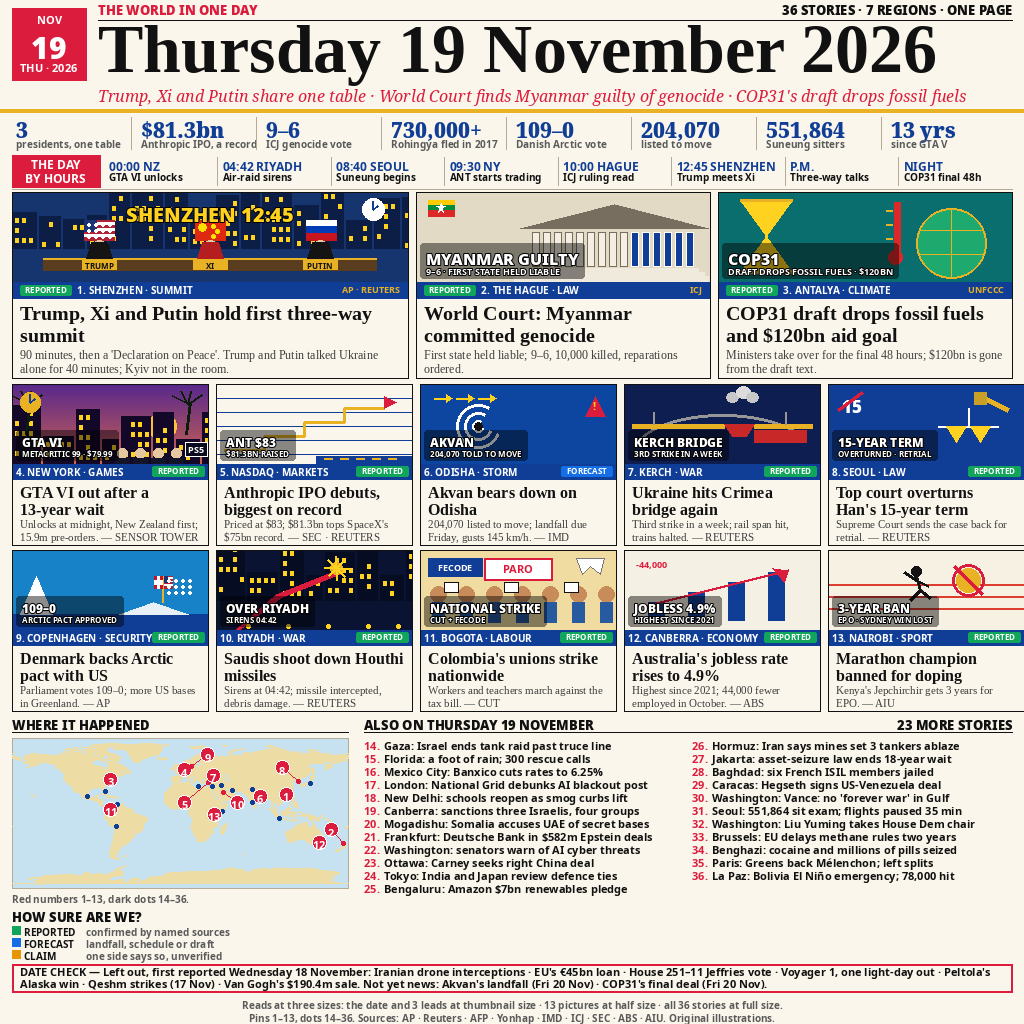
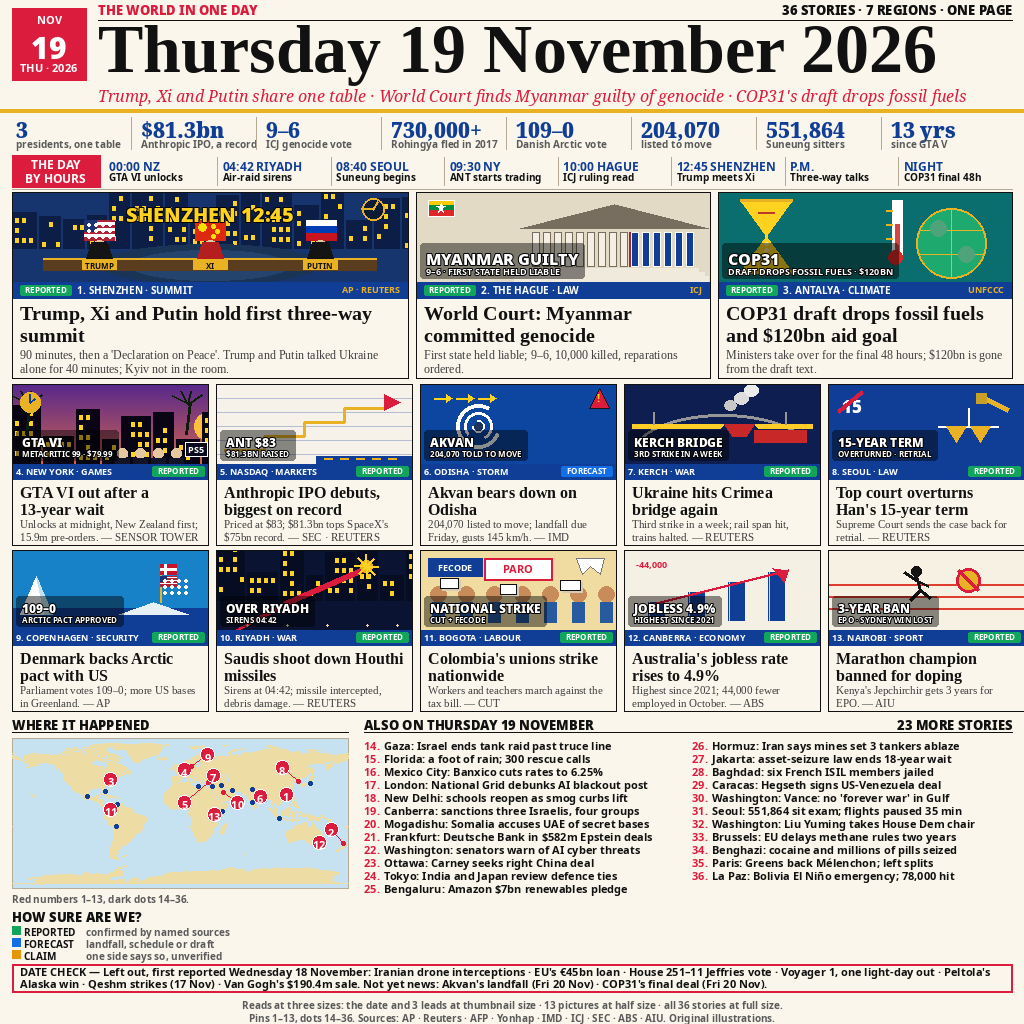
v24: fix kicker 9 collision (9px) + DeepSeek art upgrade round 2 (all 13)

diff --git a/draw.py b/draw.py
@@ -126,6 +126,7 @@ F_DATE2 = font("NotoSans-Bold.ttf", 11, FNOTO)
 F_TTIME = font("NotoSans-Bold.ttf", 12, FNOTO)
 F_TTEXT = font("NotoSans-Bold.ttf", 10, FNOTO)
 F_KICK = font("NotoSans-Bold.ttf", 10, FNOTO)
+F_KICK_S = font("NotoSans-Bold.ttf", 9, FNOTO)  # smalls kicker: 10px made #9 touch the pill (0.3px gap)
 F_PILL = font("NotoSans-Bold.ttf", 8, FNOTO)
 F_SRC = font("NotoSans-Bold.ttf", 9, FNOTO)
 F_HEAD = font("LiberationSerif-Bold.ttf", 20, FLIB)
@@ -399,10 +400,15 @@ def art_image(key, w, h):
     if key == "summit":
         d.rectangle([0, 0, w, h], fill=(22, 52, 110))
         _skyline(d, w, h, h - 34, (12, 30, 70), 7)
-        # wall clock 12:45, top right (no label: the focal text says 12:45)
-        d.ellipse([w - 46, 6, w - 24, 28], fill="white")
-        d.line([w - 35, 17, w - 35, 9], fill=NAVY, width=2)
-        d.line([w - 35, 17, w - 30, 13], fill=NAVY, width=2)
+        # wall clock 12:45, top right: gold ring, dark face, hands read 12:45
+        # (minute hand left to 9, hour hand 3/4 toward 1)
+        d.ellipse([w - 46, 6, w - 24, 28], fill=(11, 27, 51), outline=GOLD,
+                  width=2)
+        d.line([w - 35, 17, w - 47, 17], fill=GOLD, width=2)
+        d.line([w - 35, 17, w - 30, 9], fill=GOLD, width=2)
+        # warm glow behind the table so the leaders pop out of the dark
+        d.ellipse([w * 0.22, 52, w * 0.78, 92], fill=(26, 52, 87))
+        d.ellipse([w * 0.30, 58, w * 0.70, 88], fill=(36, 68, 110))
         # three flags above the leaders (DeepSeek v20: one flag per leader)
         _flag(d, 72, 28, 30, 20, "us")
         _flag(d, 183, 28, 30, 20, "cn")
@@ -425,9 +431,9 @@ def art_image(key, w, h):
             t = i / h
             d.line([0, i, w, i], fill=(int(88 + 120 * t), int(40 + 60 * t),
                                        int(140 - 60 * t)))
-        # sun, right (DeepSeek v20)
-        d.ellipse([136, 28, 164, 56], fill=(255, 190, 60))
-        _skyline(d, w, h, h, (20, 8, 40), 11)
+        # sun, right: half-disc clipped by the edge (a sunset, not a logo)
+        d.ellipse([182, 28, 210, 56], fill=(255, 190, 60))
+        _skyline(d, w, h, h, (10, 5, 20), 11)
         for px in (14, w - 22):
             d.line([px, h - 30, px + 4, h - 62], fill=(10, 30, 10), width=3)
             for a in (-50, -20, 10, 40):
@@ -445,15 +451,15 @@ def art_image(key, w, h):
             d.ellipse([cx - 5, h - 16, cx + 5, h - 6], fill=(230, 200, 160))
             d.rectangle([cx - 7, h - 6, cx + 7, h], fill=(20, 20, 40))
     elif key == "anthropic":
-        d.rectangle([0, 0, w, h], fill=PAPER)
+        d.rectangle([0, 0, w, h], fill=(246, 242, 233))
         for gy in range(0, h, 14):
-            d.line([0, gy, w, gy], fill=NAVY, width=1)
+            d.line([0, gy, w, gy], fill=(180, 190, 210), width=1)
         # gold stair-step chart climbing to a red arrowhead (DeepSeek v20)
         steps = [(8, 66), (48, 66), (48, 52), (88, 52), (88, 38),
                  (128, 38), (128, 24), (168, 24)]
         for i in range(len(steps) - 1):
             d.line([steps[i], steps[i + 1]], fill=GOLD, width=3)
-        d.polygon([(168, 24), (180, 18), (168, 12)], fill=RED)
+        d.polygon([(168, 26), (184, 18), (168, 10)], fill=RED)
         # navy ticker strip along the bottom right (clear of the text scrim)
         d.rectangle([100, h - 8, w, h], fill=NAVY)
         for tx in (108, 124, 140, 156, 172):
@@ -473,10 +479,13 @@ def art_image(key, w, h):
         d.rectangle([110, 76, 282, 80], fill=(240, 234, 220))
         d.rectangle([104, 80, 288, 84], fill=(240, 234, 220))
         d.rectangle([98, 84, 292, 90], fill=(240, 234, 220))
-        # Myanmar flag top left (yellow/green/red + white star)
+        # red divider between the 9 paper and 6 ink columns (the 9-6 vote)
+        d.line([213, 40, 213, 74], fill=(179, 34, 44), width=2)
+        # Myanmar flag top left (yellow/green/red + white star), white outline
         d.rectangle([12, 8, 38, 13], fill=(254, 203, 0))
         d.rectangle([12, 13, 38, 18], fill=(0, 140, 60))
         d.rectangle([12, 18, 38, 24], fill=(220, 40, 40))
+        d.rectangle([12, 8, 38, 24], outline="white", width=1)
         _star(d, 25, 16, 5, 2)
     elif key == "cop31":
         d.rectangle([0, 0, w, h], fill=(11, 110, 110))
@@ -487,74 +496,90 @@ def art_image(key, w, h):
         d.line([22, 80, 74, 80], fill=GOLD, width=3)
         d.line([48, 44, 48, 66], fill=(255, 210, 31), width=3)
         d.ellipse([38, 72, 58, 78], fill=(255, 210, 31))
-        # green globe, right: gold outline + meridian/latitude lines
+        # sand running out: red level line in the top bulb + falling grains
+        d.line([40, 20, 56, 20], fill=(192, 57, 43), width=2)
+        for gy in (50, 56, 62):
+            d.ellipse([46, gy, 50, gy + 3], fill=(247, 222, 154))
+        # green globe, right: gold outline + meridian/latitude lines + continents
         d.ellipse([198, 16, 268, 86], fill=(30, 170, 110), outline=GOLD, width=2)
         d.line([233, 18, 233, 84], fill=GOLD, width=1)
         d.line([202, 38, 264, 38], fill=GOLD, width=1)
         d.line([202, 62, 264, 62], fill=GOLD, width=1)
-        # red thermometer spearing the globe's left edge
-        d.rectangle([176, 10, 182, 62], fill=(220, 40, 40))
+        d.ellipse([212, 28, 228, 44], fill=(79, 163, 122))
+        d.ellipse([240, 54, 256, 70], fill=(79, 163, 122))
+        # red thermometer: white tube, mercury stopping short (dropping, not rising)
+        d.rectangle([174, 8, 184, 64], fill="white")
+        d.rectangle([177, 32, 181, 62], fill=(214, 69, 65))
         d.ellipse([170, 58, 184, 72], fill=(220, 40, 40))
         for ty in (18, 32, 46):
             d.line([168, ty, 174, ty], fill=GOLD, width=2)
     elif key == "akvan":
         d.rectangle([0, 0, w, h], fill=(12, 70, 160))
-        # spiral centred left (DeepSeek v20): three paper arcs + ink eye
+        # spiral centred left (DeepSeek v20): three paper arcs + navy eye
+        # arcs offset by 120 deg and tapered, so they read as rotation
         cx, cy = 58, 42
-        for r in (6, 14, 22):
-            d.arc([cx - r, cy - r, cx + r, cy + r], 20, 300,
-                  fill="white", width=3)
-        d.ellipse([cx - 4, cy - 4, cx + 4, cy + 4], fill=INK)
+        d.arc([cx - 22, cy - 22, cx + 22, cy + 22], 20, 300,
+              fill="white", width=4)
+        d.arc([cx - 14, cy - 14, cx + 14, cy + 14], 140, 60,
+              fill="white", width=3)
+        d.arc([cx - 6, cy - 6, cx + 6, cy + 6], 260, 180,
+              fill="white", width=2)
+        d.ellipse([cx - 4, cy - 4, cx + 4, cy + 4], fill=(30, 50, 90))
         # arrows inland, top left + red warning triangle top right
         for i in range(3):
             ax = 14 + i * 22
             d.line([ax, 14, ax + 12, 14], fill=YELLOW, width=2)
             d.polygon([(ax + 12, 10), (ax + 12, 18), (ax + 18, 14)],
                       fill=YELLOW)
-        d.polygon([(175, 12), (185, 32), (165, 32)], fill=RED)
-        d.text((175, 22), "!", font=F_ART2_S, fill=YELLOW, anchor="mm")
+        d.polygon([(179, 4), (189, 24), (169, 24)], fill=RED,
+                  outline=(20, 20, 20))
+        d.text((179, 14), "!", font=F_ART2_S, fill=YELLOW, anchor="mm")
     elif key == "kerch":
         d.rectangle([0, 0, w, h], fill=(14, 30, 80))
-        # bridge arc + gold deck with a gap mid-span, red span sagging (DeepSeek v20)
+        # bridge arc + gold deck with a bevelled gap mid-span, red span sagging
         d.arc([8, 30, w - 8, h + 30], 200, 340, fill=(150, 150, 150), width=3)
-        d.rectangle([8, h - 40, 100, h - 36], fill=GOLD)
-        d.rectangle([130, h - 40, w - 8, h - 36], fill=GOLD)
+        d.polygon([(8, h - 40), (100, h - 40), (96, h - 36), (8, h - 36)],
+                  fill=(255, 205, 40))
+        d.polygon([(130, h - 40), (w - 8, h - 40), (w - 8, h - 36),
+                   (134, h - 36)], fill=(255, 205, 40))
         for px in (30, w - 34):
             d.line([px, h - 40, px, h - 52], fill=(150, 150, 150), width=2)
         d.polygon([(100, h - 40), (130, h - 40), (122, h - 28), (108, h - 28)],
                   fill=(200, 40, 40))
-        # halted train, three smoke ellipses rising from the gap
+        # halted train, three smoke ellipses rising on a diagonal, fading up
         d.rectangle([w - 66, h - 34, w - 14, h - 22], fill=(200, 40, 40))
-        d.ellipse([102, 8, 114, 18], fill=(200, 200, 200))
-        d.ellipse([112, 2, 126, 14], fill=(220, 220, 220))
-        d.ellipse([122, 8, 134, 18], fill=(200, 200, 200))
+        d.ellipse([100, 16, 112, 26], fill=(200, 200, 200))
+        d.ellipse([110, 8, 124, 20], fill=(220, 220, 220))
+        d.ellipse([120, 0, 134, 12], fill=(235, 235, 235))
     elif key == "han":
         d.rectangle([0, 0, w, h], fill=NAVY)
-        # struck-through 15 top left (the overturned sentence)
+        # struck-through 15 top left (the overturned sentence): thick bar
         d.text((14, 10), "15", font=F_ART2, fill="white")
-        d.line([10, 26, 34, 8], fill=RED, width=3)
-        # gold gavel angled top right (DeepSeek v20)
+        d.line([10, 27, 34, 7], fill=RED, width=4)
+        # gold gavel angled top right (DeepSeek v20), head kept small
         d.line([w - 44, 12, w - 16, 26], fill=GOLD, width=5)
-        d.rectangle([w - 50, 8, w - 38, 20], fill=(200, 160, 40))
-        # yellow scales on a paper beam, centre right
+        d.rectangle([w - 48, 9, w - 38, 19], fill=(200, 160, 40))
+        # gold scales on a paper beam, centre right
         d.line([140, 24, 140, 42], fill="white", width=2)
         d.line([110, 42, 170, 42], fill="white", width=2)
-        d.polygon([(118, 42), (138, 42), (128, 58)], fill=YELLOW)
-        d.polygon([(142, 42), (162, 42), (152, 58)], fill=YELLOW)
+        d.polygon([(118, 42), (138, 42), (128, 58)], fill=GOLD)
+        d.polygon([(142, 42), (162, 42), (152, 58)], fill=GOLD)
     elif key == "greenland":
         d.rectangle([0, 0, w, h], fill=(24, 130, 200))
-        # navy sea band (DeepSeek v20)
-        d.rectangle([0, 64, w, h], fill=NAVY)
+        # navy sea band, waterline at y58
+        d.rectangle([0, 58, w, h], fill=NAVY)
         # paper iceberg + second smaller berg, bases on the sea
         d.polygon([(8, 64), (40, 64), (24, 26)], fill="white")
+        # light-blue facet wedge on the iceberg's right third
+        d.polygon([(24, 26), (40, 64), (32, 64)], fill=(191, 227, 242))
         d.polygon([(w * 0.55, 64), (w * 0.72, 52), (w * 0.9, 64)],
                   fill=(230, 240, 245))
-        # two flags on one gold pole, right
-        d.line([150, 26, 150, 52], fill=GOLD, width=2)
-        d.rectangle([142, 26, 150, 38], fill=(200, 20, 40))
-        d.rectangle([142, 30, 150, 34], fill="white")
-        d.rectangle([145, 26, 147, 38], fill="white")
-        _flag(d, 152, 26, 8, 12, "us")
+        # two flags stacked on one gold pole, right
+        d.line([148, 14, 148, 52], fill=GOLD, width=2)
+        d.rectangle([148, 14, 164, 24], fill=(200, 20, 40))
+        d.rectangle([148, 18, 164, 20], fill="white")
+        d.rectangle([152, 14, 154, 24], fill="white")
+        _flag(d, 148, 26, 16, 10, "us")
     elif key == "marathon":
         d.rectangle([0, 0, w, h], fill=(246, 241, 226))
         # track lanes + runner + finish line
@@ -568,24 +593,24 @@ def art_image(key, w, h):
         d.line([cx, cy + 2, cx + 12, cy + 8], fill=(20, 20, 20), width=3)
         d.line([cx + 4, cy + 12, cx - 6, cy + 22], fill=(20, 20, 20), width=3)
         d.line([cx + 4, cy + 12, cx + 14, cy + 20], fill=(20, 20, 20), width=3)
-        # gold medal with a red circle-slash (the ban) (DeepSeek v20)
+        # gold medal with a red circle-slash that fits the medal (the ban)
         d.ellipse([128, 18, 152, 42], fill=GOLD)
-        d.ellipse([124, 14, 156, 46], outline=RED, width=3)
-        d.line([126, 16, 154, 44], fill=RED, width=3)
+        d.ellipse([128, 18, 152, 42], outline=RED, width=3)
+        d.line([130, 20, 150, 40], fill=RED, width=3)
     elif key == "riyadh":
         d.rectangle([0, 0, w, h], fill=(10, 20, 50))
         _skyline(d, w, h, h - 30, (6, 12, 34), 11)
-        # red interceptor trail rising to a gold burst (DeepSeek v20)
-        d.polygon([(20, 79), (60, 44), (120, 20), (124, 24), (64, 48), (24, 79)],
-                  fill=RED)
-        d.ellipse([114, 12, 126, 24], fill=GOLD)
+        # red interceptor trail rising to a gold burst, upper right
+        d.polygon([(20, 79), (70, 50), (148, 16), (152, 20), (74, 54),
+                   (24, 79)], fill=RED)
+        d.ellipse([144, 10, 156, 22], fill=GOLD)
         for a in range(0, 360, 45):
-            d.line([120, 18, 120 + int(12 * math.cos(math.radians(a))),
-                    18 + int(12 * math.sin(math.radians(a)))],
+            d.line([150, 16, 150 + int(12 * math.cos(math.radians(a))),
+                    16 + int(12 * math.sin(math.radians(a)))],
                    fill=YELLOW, width=2)
-        # yellow city dots along the base
+        # small warm city dots along the base
         for dx in (30, 70, 110, 150, 180):
-            d.ellipse([dx, 74, dx + 4, 78], fill=YELLOW)
+            d.ellipse([dx, 74, dx + 2, 76], fill=(255, 215, 154))
     elif key == "ukraine":
         d.rectangle([0, 0, w, h // 2], fill=(0, 90, 180))
         d.rectangle([0, h // 2, w, h], fill=(255, 210, 31))
@@ -658,15 +683,20 @@ def art_image(key, w, h):
         d.polygon([(w - 40, 8), (w - 12, 8), (w - 16, 24),
                    (w - 26, 16), (w - 34, 24)], fill="white",
                   outline=(120, 120, 120))
-        # paper placards held up by the crowd (DeepSeek v20)
-        for px in (24, 84, 144):
-            d.rectangle([px, 32, px + 14, 42], fill="white", outline=INK)
+        # paper placards held up by the crowd (DeepSeek v20): staggered,
+        # each with a small offset shadow, baselines clear of the scrim
+        for px, py, pw in ((20, 28, 18), (80, 34, 16), (140, 30, 20)):
+            d.rectangle([px + 2, py + 2, px + pw + 2, py + 12],
+                        fill=(216, 203, 182))
+            d.rectangle([px, py, px + pw, py + 10], fill="white",
+                        outline=INK)
     elif key == "australia":
         d.rectangle([0, 0, w, h], fill=(245, 240, 228))
-        # four navy bars rising left to right (DeepSeek v20)
+        # four navy bars rising left to right (DeepSeek v20), light left edge
         for i, top in enumerate((52, 42, 32, 22)):
             x = 24 + i * 40
             d.rectangle([x, top, x + 16, 70], fill=NAVY)
+            d.line([x + 1, top, x + 1, 70], fill=(217, 210, 196), width=1)
         # red arrow climbing above the bars
         d.line([(20, 56), (164, 20)], fill=RED, width=3)
         d.polygon([(164, 20), (148, 18), (160, 32)], fill=RED)
@@ -827,7 +857,7 @@ def main():
             img.paste(im, (cx, cy))
             d.rectangle([cx, cy + 80, cx + sw_, cy + 95], fill=NAVY)
             d.text((cx + 4, cy + 81), "%d. %s \u00b7 %s" % (num, reg, topic),
-                   font=F_KICK, fill="white")
+                   font=F_KICK_S, fill="white")
             pw = d.textlength(status, font=F_PILL) + 10
             d.rounded_rectangle([cx + sw_ - 4 - pw, cy + 82, cx + sw_ - 4, cy + 92],
                                 radius=2, fill=PILL_COL[status])
